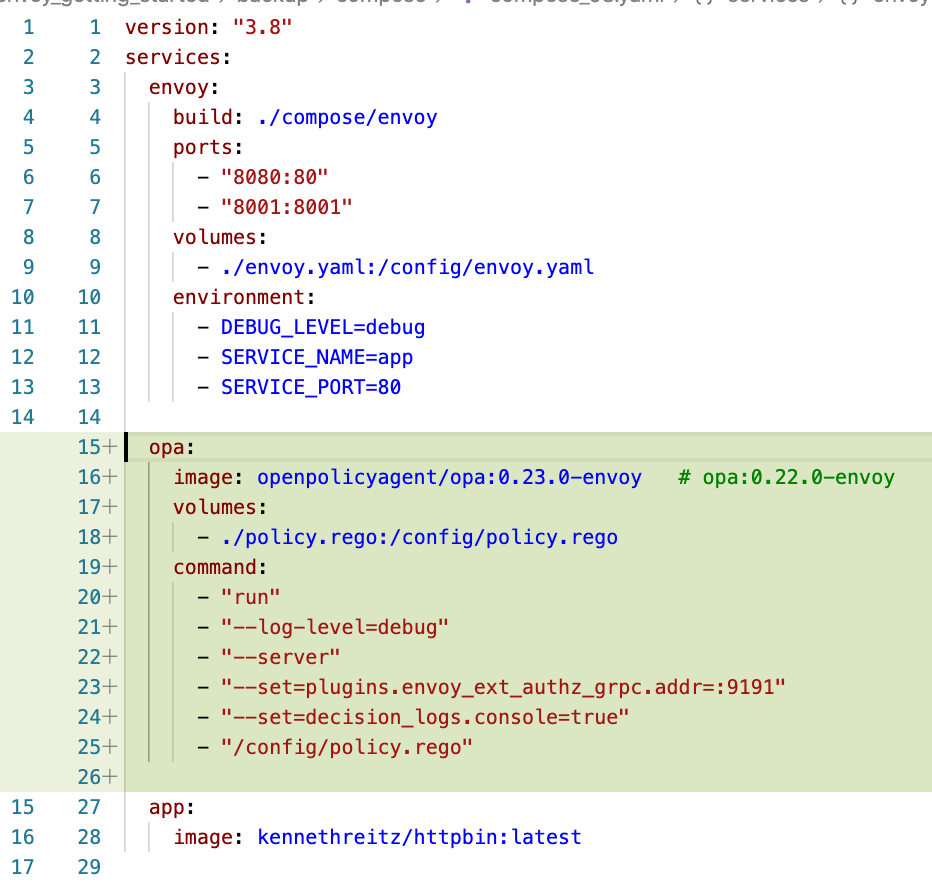
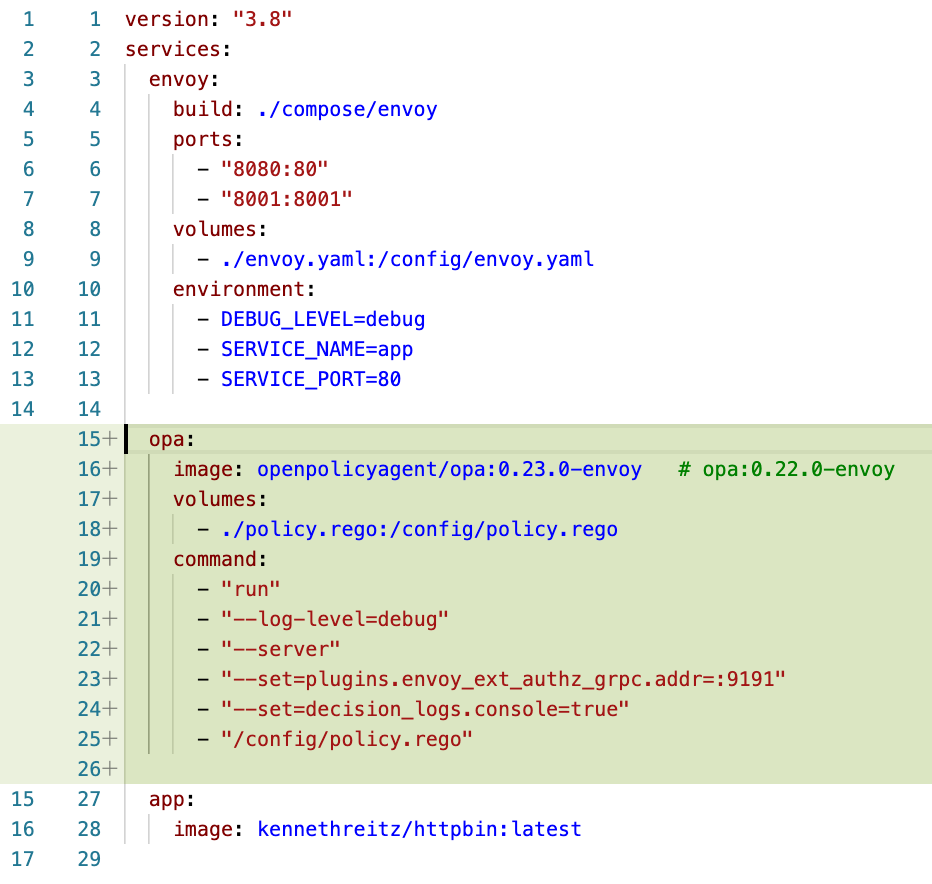
finished switching blog site to images for code

diff --git a/public/blog/envoy_opa_3_adding_open_policy_agent/index.html b/public/blog/envoy_opa_3_adding_open_policy_agent/index.html
@@ -10,7 +10,7 @@
 <meta itemprop="description" content="Learn how to use Open Policy Agent with Envoy for more powerful authorization rules">
 <meta itemprop="datePublished" content="2020-09-01T17:34:13-04:00" />
 <meta itemprop="dateModified" content="2020-09-01T17:34:13-04:00" />
-<meta itemprop="wordCount" content="1506">
+<meta itemprop="wordCount" content="1597">
 <meta itemprop="image" content="https://helpfulbadger.github.io/img/2020/08/Royal-Guard-unsplash.jpg">
 
 
@@ -329,20 +329,18 @@
 <li>The gRPC service for Envoy is configured on line 23</li>
 <li>The logs are sent to the console for a log aggregation solution to pickup (or not) on line 24</li>
 </ul>
-<script type="application/javascript" src="https://gist.github.com/helpfulBadger/8405aa13b6f33100edd8f2ec2ae97a79.js"></script>
-
+<p><img class="special-img-class" src="/img/2020/08/03_compose_changes.png" /><br></p>
 <h2 id="envoy-config-changes">Envoy Config Changes</h2>
 <p>There are a few things that we need to add to the envoy configuration to enable external authorization:</p>
 <ul>
-<li>We added an external authorization configuration at line 24.</li>
+<li>We added an external authorization configuration at line 23.</li>
 <li>failure_mode_allow on line 26 determines whether envoy fails open or closed when the authorization service fails.</li>
 <li>with_request_body determines if the request body is sent to the authorization service.</li>
 <li>max_request_bytes determines how large of a request body Envoy will permit.</li>
 <li>allow_partial_message determines if a partial body is sent or not when a buffer maximum is reached.</li>
 <li>The grpc_service object on line 30 specifies how to reach the Open Policy Agent endpoint to make an authorization decision.</li>
 </ul>
-<script type="application/javascript" src="https://gist.github.com/helpfulBadger/5df3e9e86d2c2bd9ccd7bcfdb8439122.js"></script>
-
+<p><img class="special-img-class" src="/img/2020/08/03_Envoy_config.png" /><br></p>
 <h2 id="rego-opas-policy-language">Rego: OPA&rsquo;s Policy Language</h2>
 <p>There are a lot of other examples of how to write Rego policies on other sites. This walkthrough of Rego is targeted specifically to using it to make Envoy decisions:</p>
 <ul>
@@ -351,8 +349,8 @@
 <li>On line 5 we have a rule named <code>allow</code> and we set it&rsquo;s default value to and object that Envoy is expecting.
 <ul>
 <li>The allowed property determines if the request is permitted to go through or not.</li>
-<li>The headers property allows us to set headers on either the forwarded request (if approved) or on the rejected request (if denied)</li>
-<li>The body property can be used to communicate error message details to the requestor. It has no affect on requests approved for forwarding</li>
+<li>The headers property allows us to set headers on either the forwarded request (if approved) or on the rejected request (if denied). OPA does not marshal any REGO data types on your behalf. All header values must be specified as a string.</li>
+<li>The body property can be used to communicate error message details to the requestor. It has no affect on requests approved for forwarding. OPA does not marshal any REGO data types on your behalf. The body value must be specified as a string.</li>
 <li>The http_status property can be set on any rejected requests to any value as desired</li>
 </ul>
 </li>
@@ -364,13 +362,12 @@
 </ul>
 </li>
 </ul>
-<script type="application/javascript" src="https://gist.github.com/helpfulBadger/cd6c55261fa2b84d1cebbb797332281d.js"></script>
-
+<p><img class="special-img-class" src="/img/2020/08/03_rego_policy.png" /><br></p>
 <h2 id="input-data-sent-from-envoy">Input data sent from Envoy</h2>
 <p>Now we dive into the details of the input data structure sent from Envoy.</p>
 <ul>
 <li>Line 3 is an object that describes the IP address and Port that the request is going to</li>
-<li>Line 16 is the request object itself. The unmarshalled body is present along with:
+<li>Line 10 is the request object itself. The unmarshalled body is present along with:
 <ul>
 <li>request headers</li>
 <li>hostname where the original request was sent</li>
@@ -381,34 +378,34 @@
 <li>request size</li>
 </ul>
 </li>
-<li>Line 43 is a object that describes the IP address and port where the request originated</li>
-<li>Line 56 is where Envoy has already done some work for us to parse the request body (if it was configured to be forwarded)</li>
-<li>Line 60 and 63 are the parsed path and query parameters respectively</li>
-<li>Finally, line 71 let&rsquo;s us know whether we have the complete request body or not</li>
+<li>Line 34 is a object that describes the IP address and port where the request originated</li>
+<li>Line 45 is where Envoy has already done some work for us to parse the request body (if it was configured to be forwarded)</li>
+<li>Line 46 and 47 are the parsed path and query parameters respectively</li>
+<li>Finally, line 48 let&rsquo;s us know whether we have the complete request body or not</li>
 </ul>
-<script type="application/javascript" src="https://gist.github.com/helpfulBadger/9c367ca3d8214f8edd4706b04863a38c.js"></script>
-
+<p><img class="special-img-class" src="/img/2020/08/03_rego_input.png" /><br></p>
 <h2 id="reviewing-the-request-flow-in-envoys-logs">Reviewing the Request Flow in Envoy&rsquo;s Logs</h2>
 <p>In debug mode, we have a lot of rich information that Envoy logs for us to help us determine what may be going wrong as we develop our system.</p>
 <ul>
 <li>Line 1 shows our request first coming in</li>
 <li>The next several lines show us the request headers</li>
-<li>Line 12 let&rsquo;s us know that envoy is buffering the request until it reaches the buffer limit that we set</li>
-<li>Line 15 and 16 show us that Envoy forwarded the request to our authorization service and got an approval to forward the request</li>
+<li>Line 13-14 let&rsquo;s us know that envoy is buffering the request until it reaches the buffer limit that we set</li>
+<li>Line 16-20 show us that Envoy forwarded the request to our authorization service and got an approval to forward the request</li>
 <li>The remainder of the logs show envoy forwarding the request to its destination and then back to the calling client</li>
 </ul>
-<script type="application/javascript" src="https://gist.github.com/helpfulBadger/fcb65af0cf9d7814883cec2f5bc1259c.js"></script>
-
+<p><img class="special-img-class" src="/img/2020/08/03_envoy_log.png" /><br></p>
 <h2 id="reviewing-opas-decision-log">Reviewing OPA&rsquo;s Decision Log</h2>
 <p>The open policy agent decision logs include the input that we just reviewed and some other information that we can use for debugging, troubleshoot or audit logging. The interesting parts that we haven&rsquo;t reviewed yet:</p>
 <ul>
 <li>The decision ID on line 2 can be matched against other OPA log entries related to this decision</li>
-<li>Line 75 has the labels that show which Envoy instance the request came from</li>
-<li>Line 80 is an object that contains the performance metrics for the decision</li>
-<li>Line 88 shows the response that OPA sent back to Envoy</li>
+<li>Line 5 - Envoy sends us the destination of the request</li>
+<li>Line 7 - Envoy sends the request details. The unmarshalled body is only available if we setup the buffering and forwarding in the Envoy configuration.</li>
+<li>line 30 - Envoy also sends us the source IP address that it received the request from.</li>
+<li>Line 37 has the labels that show which Envoy instance the request came from</li>
+<li>Line 42 is an object that contains the performance metrics for the decision</li>
+<li>Line 50 shows the response that OPA sent back to Envoy</li>
 </ul>
-<script type="application/javascript" src="https://gist.github.com/helpfulBadger/2bdfa1c8324e975fe8ed9acf1f4ab14a.js"></script>
-
+<p><img class="special-img-class" src="/img/2020/08/03_OPA_decision_log.png" /><br></p>
 <h1 id="taking-this-solution-for-a-spin">Taking this solution for a spin</h1>
 <p>Now that we know what we are looking at, we can run this example by executing the script <code>./demonstrate_opa_integration.sh</code></p>
 <ol>

diff --git a/public/blog/envoy_opa_2_adding_observability/index.html b/public/blog/envoy_opa_2_adding_observability/index.html
@@ -10,7 +10,7 @@
 <meta itemprop="description" content="Learn how to add ElasticSearch and Kibana to your Envoy front proxy environment">
 <meta itemprop="datePublished" content="2020-09-01T15:59:54-04:00" />
 <meta itemprop="dateModified" content="2020-09-01T15:59:54-04:00" />
-<meta itemprop="wordCount" content="766">
+<meta itemprop="wordCount" content="782">
 <meta itemprop="image" content="https://helpfulbadger.github.io/img/2020/08/observatory-unsplash.jpg">
 
 
@@ -298,13 +298,11 @@
 <p>The solution that we will build in this blog is shown below. We will send docker logs into an EFK stack that is also running inside docker. Each of the containers in our solution simply send logs to Standard out and / or Standard Error. No agents nor other special software is requirements are imposed on the observered applications.</p>
 <p><img class="special-img-class" src="/img/2020/08/Envoy-front proxy-Observability_1.svg" /><br></p>
 <h2 id="adding-efk-containers">Adding EFK containers</h2>
-<p>We will be using Fluent Bit in this example because it is lite weight and simpler to deal with than Logstash or full fledged FluentD. Below is a gist with a very basic configuration and no special optimizations. Lines 9 and 30 use the <code>depend_on</code> property to cause docker to start elasticSearch first and then the other containers that depend on elasticSearch.</p>
-<script type="application/javascript" src="https://gist.github.com/helpfulBadger/7414ff8326c13f5ab2890e4a55c9edc3.js"></script>
-
+<p>We will be using Fluent Bit in this example because it is lite weight and simpler to deal with than Logstash or full fledged FluentD. Below is a very basic configuration with no special optimizations. Lines 18 - 49 add the EFK stack to our environment.  Lines 16 and 47 use the <code>depend_on</code> property to cause docker to start elasticSearch first and then Kiban and Fluent Bit that depend on elasticSearch.</p>
+<p><img class="special-img-class" src="/img/2020/08/02_compose_step_1.png" /><br></p>
 <h2 id="wiring-our-containers-into-efk">Wiring our containers into EFK</h2>
-<p>With the log aggregation containers added to our docker-compose file, we now need to wire them into the other containers in our environment. The gist below shows a couple of small changes that we needed to make to our compose file from Getting Started Guide #1. We added the property at line 14 below which expresses our dependency on elasticSeach. Additionally, we need to wire standard out and standard error from our containers to fluentBit. This is done through the logging properties on lines 17 and 27. The driver line tells docker which log driver to use and the tag help make it more clear which container is the source of the logs.</p>
-<script type="application/javascript" src="https://gist.github.com/helpfulBadger/e701287a1847345c6997946a5b98787e.js"></script>
-
+<p>With the EFK log aggregation containers added to our docker-compose file, we now need to wire them into the other containers in our environment. The changes below show a couple of small changes that we needed to make to our compose file from where we left off in Getting Started Guide #1. We added the property at line 14 below which expresses our dependency on elasticSeach. Additionally, we need to wire standard out and standard error from our containers to Fluent Bit. This is done through the logging properties on lines 17 and 27. The driver line tells docker which log driver to use and the tag help make it more clear which container is the source of the logs.</p>
+<p><img class="special-img-class" src="/img/2020/08/02_compose_step_2.png" /><br></p>
 <h1 id="taking-things-for-a-spin">Taking things for a spin</h1>
 <p>The demonstration script spins everything up for us. Just run <code>./demonstrate_front_proxy.sh</code> to get things going:</p>
 <ol>

diff --git a/public/blog/envoy_opa_1_front_proxy/index.html b/public/blog/envoy_opa_1_front_proxy/index.html
@@ -334,9 +334,9 @@ The diagram above shows the sidecar approach.</p>
 <p><img class="special-img-class" src="/img/2020/08/01_docker_compose.png" /></p>
 <p>The service to route to and port are defined on the environment variables on lines 12 and 13. Notice the name app matches the name of our final service on line 15. We are simply using HTTPBIN to reflect our request back to us.</p>
 <h2 id="running-and-trying-out-our-example">Running and Trying out our Example</h2>
-<p>The last step to getting our front proxy up is simply running the included script <code>test.sh</code> that demonstrates our example. The script explains what it is about to do to ensure you know what are about to see scrolling across your terminal screen. Line 8 starts our environment. Line 14 let&rsquo;s you check to make sure both containers are running before trying to send them a request.</p>
+<p>The last step to getting our front proxy up is simply running the included script <code>test.sh</code> that demonstrates our example. The script explains what it is about to do to ensure you know what are about to see scrolling across your terminal screen. Line 3 starts our environment. Line 8 let&rsquo;s you check to make sure both containers are running before trying to send them a request.</p>
 <p><img class="special-img-class" src="/img/2020/08/01_Demo_script.png" /></p>
-<p>Line 19 simply calls Envoy with a curl command with the <code>--verbose</code> parameter set so that you can see the headers and request details. Then line 25 tears down the whole environment.</p>
+<p>Line 10 simply calls Envoy with a curl command with the <code>--verbose</code> parameter set so that you can see the headers and request details. Then line 12 tears down the whole environment.</p>
 <h2 id="containers-up">Containers UP!!!!</h2>
 <p>If you have successfully started your environment then you should see something like this:</p>
 <p><img class="special-img-class" src="/img/2020/08/01_Containers_up.png" /></p>

diff --git a/content/blog/envoy_opa_3_adding_open_policy_agent.md b/content/blog/envoy_opa_3_adding_open_policy_agent.md
@@ -21,9 +21,10 @@ images  = ["img/2020/08/Royal-Guard-unsplash.jpg"]
 
 <span>Photo by <a href="https://unsplash.com/@kutanural?utm_source=unsplash&amp;utm_medium=referral&amp;utm_content=creditCopyText">Kutan Ural</a> on <a href="https://unsplash.com/s/photos/guard-door?utm_source=unsplash&amp;utm_medium=referral&amp;utm_content=creditCopyText">Unsplash</a></span>
 
-# Envoy & Open Policy Agent
+# Getting Started with Envoy & Open Policy Agent --- 03 ---
+## Plugging OPA into Envoy
 
-This is the 3rd Envory & Open Policy Agent Getting Started Guide. Each guide is intended to explore a single feature and walk through a simple implementation. Each guide builds on the concepts explored in the previous guide to build a very powerful authorization services by the end of the series. 
+This is the 3rd Envory & Open Policy Agent Getting Started Guide. Each guide is intended to explore a single feature and walk through a simple implementation. Each guide builds on the concepts explored in the previous guide with the end goal of building a very powerful authorization service by the end of the series. 
 
 Here is a list of the Getting Started Guides that are currently available.
 
@@ -32,6 +33,7 @@ Here is a list of the Getting Started Guides that are currently available.
 1. [Using Envoy as a Front Proxy]({{< ref "/blog/envoy_opa_1_front_proxy.md" >}} "Learn how to set up Envoy as a front proxy with docker")
 1. [Adding Observability Tools]({{< ref "/blog/envoy_opa_2_adding_observability.md" >}} "Learn how to add ElasticSearch and Kibana to your Envoy front proxy environment")
 1. [Plugging Open Policy Agent into Envoy]({{< ref "/blog/envoy_opa_3_adding_open_policy_agent.md" >}} "Learn how to use Open Policy Agent with Envoy for more powerful authorization rules")
+1. [Using the Open Policy Agent CLI]({{< ref "/blog/envoy_opa_4_opa_cli.md" >}} "Learn how to use Open Policy Agent Command Line Interface")
 
 ## Envoy's External Authorization API
 
@@ -84,19 +86,20 @@ This is the same docker compose file as our initial getting started example with
 * The gRPC service for Envoy is configured on line 23
 * The logs are sent to the console for a log aggregation solution to pickup (or not) on line 24
 
-{{< gist helpfulBadger 8405aa13b6f33100edd8f2ec2ae97a79 >}}
+<img class="special-img-class" src="/img/2020/08/03_compose_changes.png" /><br>
+
 
 ## Envoy Config Changes
 
 There are a few things that we need to add to the envoy configuration to enable external authorization:
-* We added an external authorization configuration at line 24.
+* We added an external authorization configuration at line 23.
 * failure_mode_allow on line 26 determines whether envoy fails open or closed when the authorization service fails.
 * with_request_body determines if the request body is sent to the authorization service.
 * max_request_bytes determines how large of a request body Envoy will permit.
 * allow_partial_message determines if a partial body is sent or not when a buffer maximum is reached.
 * The grpc_service object on line 30 specifies how to reach the Open Policy Agent endpoint to make an authorization decision.
 
-{{< gist helpfulBadger 5df3e9e86d2c2bd9ccd7bcfdb8439122 >}}
+<img class="special-img-class" src="/img/2020/08/03_Envoy_config.png" /><br>
 
 ## Rego: OPA's Policy Language
 
@@ -105,21 +108,21 @@ There are a lot of other examples of how to write Rego policies on other sites. 
 * The import statement on line 3 navigates the heavily nested data structure that Envoy sends us and gives us a shorter alias to refer to a particular section of the input.
 * On line 5 we have a rule named `allow` and we set it's default value to and object that Envoy is expecting. 
     * The allowed property determines if the request is permitted to go through or not.
-    * The headers property allows us to set headers on either the forwarded request (if approved) or on the rejected request (if denied)
-    * The body property can be used to communicate error message details to the requestor. It has no affect on requests approved for forwarding
+    * The headers property allows us to set headers on either the forwarded request (if approved) or on the rejected request (if denied). OPA does not marshal any REGO data types on your behalf. All header values must be specified as a string. 
+    * The body property can be used to communicate error message details to the requestor. It has no affect on requests approved for forwarding. OPA does not marshal any REGO data types on your behalf. The body value must be specified as a string. 
     * The http_status property can be set on any rejected requests to any value as desired
 * The next section starting at line 12 specifies the logic for approving the request to move forward
     * On line 12 the allow rule is set to the value of the response variable that we define in the body of the rule
     * Line 13 is the only condition we have defined for approval of the request. The request method simply needs to be a POST.
     * If true then we set the response to the values on lines 15 and 16. 
 
-{{< gist helpfulBadger cd6c55261fa2b84d1cebbb797332281d >}}
+<img class="special-img-class" src="/img/2020/08/03_rego_policy.png" /><br>
 
 ## Input data sent from Envoy
 
 Now we dive into the details of the input data structure sent from Envoy. 
 * Line 3 is an object that describes the IP address and Port that the request is going to
-* Line 16 is the request object itself. The unmarshalled body is present along with:
+* Line 10 is the request object itself. The unmarshalled body is present along with:
     * request headers
     * hostname where the original request was sent
     * a unique request ID assigned by Envoy
@@ -127,33 +130,36 @@ Now we dive into the details of the input data structure sent from Envoy.
     * unparsed path
     * protocol 
     * request size
-* Line 43 is a object that describes the IP address and port where the request originated
-* Line 56 is where Envoy has already done some work for us to parse the request body (if it was configured to be forwarded)
-* Line 60 and 63 are the parsed path and query parameters respectively
-* Finally, line 71 let's us know whether we have the complete request body or not
+* Line 34 is a object that describes the IP address and port where the request originated
+* Line 45 is where Envoy has already done some work for us to parse the request body (if it was configured to be forwarded)
+* Line 46 and 47 are the parsed path and query parameters respectively
+* Finally, line 48 let's us know whether we have the complete request body or not
 
-{{< gist helpfulBadger 9c367ca3d8214f8edd4706b04863a38c >}}
+<img class="special-img-class" src="/img/2020/08/03_rego_input.png" /><br>
 
 ## Reviewing the Request Flow in Envoy's Logs
 
 In debug mode, we have a lot of rich information that Envoy logs for us to help us determine what may be going wrong as we develop our system. 
 * Line 1 shows our request first coming in 
 * The next several lines show us the request headers
-* Line 12 let's us know that envoy is buffering the request until it reaches the buffer limit that we set
-* Line 15 and 16 show us that Envoy forwarded the request to our authorization service and got an approval to forward the request
+* Line 13-14 let's us know that envoy is buffering the request until it reaches the buffer limit that we set
+* Line 16-20 show us that Envoy forwarded the request to our authorization service and got an approval to forward the request
 * The remainder of the logs show envoy forwarding the request to its destination and then back to the calling client
 
-{{< gist helpfulBadger fcb65af0cf9d7814883cec2f5bc1259c >}}
+<img class="special-img-class" src="/img/2020/08/03_envoy_log.png" /><br>
 
 ## Reviewing OPA's Decision Log
 
 The open policy agent decision logs include the input that we just reviewed and some other information that we can use for debugging, troubleshoot or audit logging. The interesting parts that we haven't reviewed yet:
 * The decision ID on line 2 can be matched against other OPA log entries related to this decision
-* Line 75 has the labels that show which Envoy instance the request came from
-* Line 80 is an object that contains the performance metrics for the decision
-* Line 88 shows the response that OPA sent back to Envoy
+* Line 5 - Envoy sends us the destination of the request
+* Line 7 - Envoy sends the request details. The unmarshalled body is only available if we setup the buffering and forwarding in the Envoy configuration.
+* line 30 - Envoy also sends us the source IP address that it received the request from.
+* Line 37 has the labels that show which Envoy instance the request came from
+* Line 42 is an object that contains the performance metrics for the decision
+* Line 50 shows the response that OPA sent back to Envoy
 
-{{< gist helpfulBadger 2bdfa1c8324e975fe8ed9acf1f4ab14a >}}
+<img class="special-img-class" src="/img/2020/08/03_OPA_decision_log.png" /><br>
 
 # Taking this solution for a spin
 

diff --git a/content/blog/envoy_opa_2_adding_observability.md b/content/blog/envoy_opa_2_adding_observability.md
@@ -22,10 +22,10 @@ images  = ["img/2020/08/observatory-unsplash.jpg"]
 <span>Photo by <a href="https://unsplash.com/@alexeckermann?utm_source=unsplash&amp;utm_medium=referral&amp;utm_content=creditCopyText">Alex Eckermann</a> on <a href="https://unsplash.com/?utm_source=unsplash&amp;utm_medium=referral&amp;utm_content=creditCopyText">Unsplash</a></span>
 
 
-# Envoy & Open Policy Agent
+# Getting Started with Envoy & Open Policy Agent --- 02 ---
 ## Adding Log Aggregation to our Envoy Example
 
-This is the 2nd Envory & Open Policy Agent (OPA) Getting Started Guide. Each guide is intended to explore a single Envoy or OPA feature and walk through a simple implementation. Each guide builds on the concepts explored in the previous guide to deliver a very powerful authorization service by the end of the series. 
+This is the 2nd Envory & Open Policy Agent (OPA) Getting Started Guide. Each guide is intended to explore a single Envoy or OPA feature and walk through a simple implementation. Each guide builds on the concepts explored in the previous guide with the goal of creating a very powerful authorization service by the end of the series. 
 
 While our solution is still very simple, it is a great time to show how to make our solution observable with log aggregation. This makes it easier to think about how to scale and productionize our solution.  As we start to develop and apply authorization rules at scale it will be handy to have all of the logs aggregated and displayed in one place for development and troubleshooting activies. In this article we will walk through how to setup the EFK stack to pull your logs together from all of the docker containers in your local development environment. All of the [source code for this getting started example](https://github.com/helpfulBadger/envoy_getting_started/tree/master/02_front_proxy_kibana) is located on github. 
 
@@ -36,6 +36,7 @@ Here is a list of the Getting Started Guides that are currently available.
 1. [Using Envoy as a Front Proxy]({{< ref "/blog/envoy_opa_1_front_proxy.md" >}} "Learn how to set up Envoy as a front proxy with docker")
 1. [Adding Observability Tools]({{< ref "/blog/envoy_opa_2_adding_observability.md" >}} "Learn how to add ElasticSearch and Kibana to your Envoy front proxy environment")
 1. [Plugging Open Policy Agent into Envoy]({{< ref "/blog/envoy_opa_3_adding_open_policy_agent.md" >}} "Learn how to use Open Policy Agent with Envoy for more powerful authorization rules")
+1. [Using the Open Policy Agent CLI]({{< ref "/blog/envoy_opa_4_opa_cli.md" >}} "Learn how to use Open Policy Agent Command Line Interface")
 
 # Solution Overview
 
@@ -45,15 +46,16 @@ The solution that we will build in this blog is shown below. We will send docker
 
 ## Adding EFK containers
 
-We will be using Fluent Bit in this example because it is lite weight and simpler to deal with than Logstash or full fledged FluentD. Below is a gist with a very basic configuration and no special optimizations. Lines 9 and 30 use the `depend_on` property to cause docker to start elasticSearch first and then the other containers that depend on elasticSearch. 
+We will be using Fluent Bit in this example because it is lite weight and simpler to deal with than Logstash or full fledged FluentD. Below is a very basic configuration with no special optimizations. Lines 18 - 49 add the EFK stack to our environment.  Lines 16 and 47 use the `depend_on` property to cause docker to start elasticSearch first and then Kiban and Fluent Bit that depend on elasticSearch. 
 
-{{< gist helpfulBadger 7414ff8326c13f5ab2890e4a55c9edc3 >}}
+<img class="special-img-class" src="/img/2020/08/02_compose_step_1.png" /><br>
 
 ## Wiring our containers into EFK
 
-With the log aggregation containers added to our docker-compose file, we now need to wire them into the other containers in our environment. The gist below shows a couple of small changes that we needed to make to our compose file from Getting Started Guide #1. We added the property at line 14 below which expresses our dependency on elasticSeach. Additionally, we need to wire standard out and standard error from our containers to fluentBit. This is done through the logging properties on lines 17 and 27. The driver line tells docker which log driver to use and the tag help make it more clear which container is the source of the logs. 
+With the EFK log aggregation containers added to our docker-compose file, we now need to wire them into the other containers in our environment. The changes below show a couple of small changes that we needed to make to our compose file from where we left off in Getting Started Guide #1. We added the property at line 14 below which expresses our dependency on elasticSeach. Additionally, we need to wire standard out and standard error from our containers to Fluent Bit. This is done through the logging properties on lines 17 and 27. The driver line tells docker which log driver to use and the tag help make it more clear which container is the source of the logs. 
 
-{{< gist helpfulBadger e701287a1847345c6997946a5b98787e >}}
+<img class="special-img-class" src="/img/2020/08/02_compose_step_2.png" /><br>
+
 
 # Taking things for a spin
 

diff --git a/content/blog/envoy_opa_4_opa_cli.md b/content/blog/envoy_opa_4_opa_cli.md
@@ -1,0 +1,31 @@
++++
+author = "Helpful Badger"
+title = "Using the Open Policy Agent CLI"
+draft = false
+date  = 2020-09-02T07:48:50-04:00
+description = "Learn how to use Open Policy Agent Command Line Interface"
+tags = [
+    "OPA",
+    "Open Policy Agent",
+]
+categories = [
+    "cloud",
+    "Security",
+]
+images  = ["img/2020/08/OPA_CLI.png"]
++++
+
+# Getting Started with Envoy & Open Policy Agent --- 04 ---
+# Using the Open Policy Agent Command Line Interface
+
+This is the 4th Envory & Open Policy Agent Getting Started Guide. Each guide is intended to explore a single feature and walk through a simple implementation. Each guide builds on the concepts explored in the previous guide with the end goal of building a very powerful authorization service by the end of the series. 
+
+Here is a list of the Getting Started Guides that are currently available.
+
+## Getting Started Guides
+
+1. [Using Envoy as a Front Proxy]({{< ref "/blog/envoy_opa_1_front_proxy.md" >}} "Learn how to set up Envoy as a front proxy with docker")
+1. [Adding Observability Tools]({{< ref "/blog/envoy_opa_2_adding_observability.md" >}} "Learn how to add ElasticSearch and Kibana to your Envoy front proxy environment")
+1. [Plugging Open Policy Agent into Envoy]({{< ref "/blog/envoy_opa_3_adding_open_policy_agent.md" >}} "Learn how to use Open Policy Agent with Envoy for more powerful authorization rules")
+1. [Using the Open Policy Agent CLI]({{< ref "/blog/envoy_opa_4_opa_cli.md" >}} "Learn how to use Open Policy Agent Command Line Interface")
+

diff --git a/content/blog/envoy_opa_1_front_proxy.md b/content/blog/envoy_opa_1_front_proxy.md
@@ -93,11 +93,11 @@ The service to route to and port are defined on the environment variables on lin
 
 ## Running and Trying out our Example
 
-The last step to getting our front proxy up is simply running the included script `test.sh` that demonstrates our example. The script explains what it is about to do to ensure you know what are about to see scrolling across your terminal screen. Line 8 starts our environment. Line 14 let's you check to make sure both containers are running before trying to send them a request. 
+The last step to getting our front proxy up is simply running the included script `test.sh` that demonstrates our example. The script explains what it is about to do to ensure you know what are about to see scrolling across your terminal screen. Line 3 starts our environment. Line 8 let's you check to make sure both containers are running before trying to send them a request. 
 
 <img class="special-img-class" src="/img/2020/08/01_Demo_script.png" />
 
-Line 19 simply calls Envoy with a curl command with the `--verbose` parameter set so that you can see the headers and request details. Then line 25 tears down the whole environment. 
+Line 10 simply calls Envoy with a curl command with the `--verbose` parameter set so that you can see the headers and request details. Then line 12 tears down the whole environment. 
 
 ## Containers UP!!!!
 
